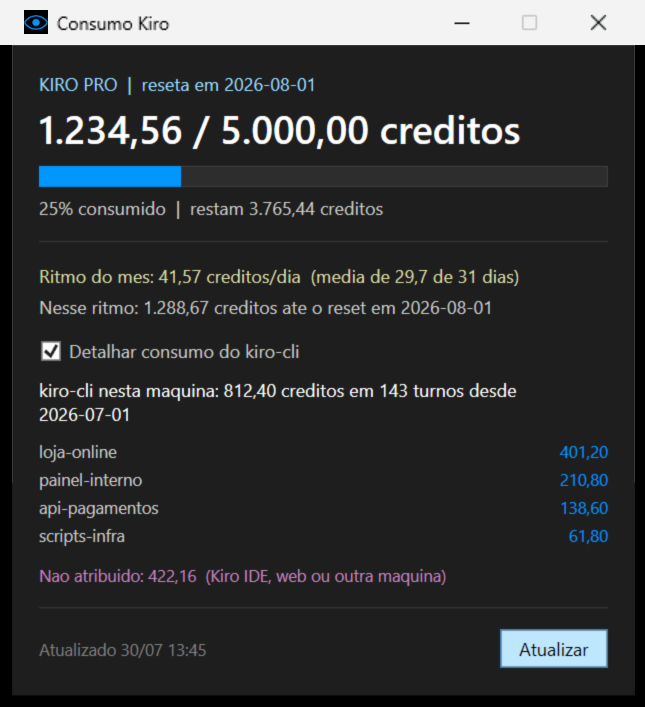
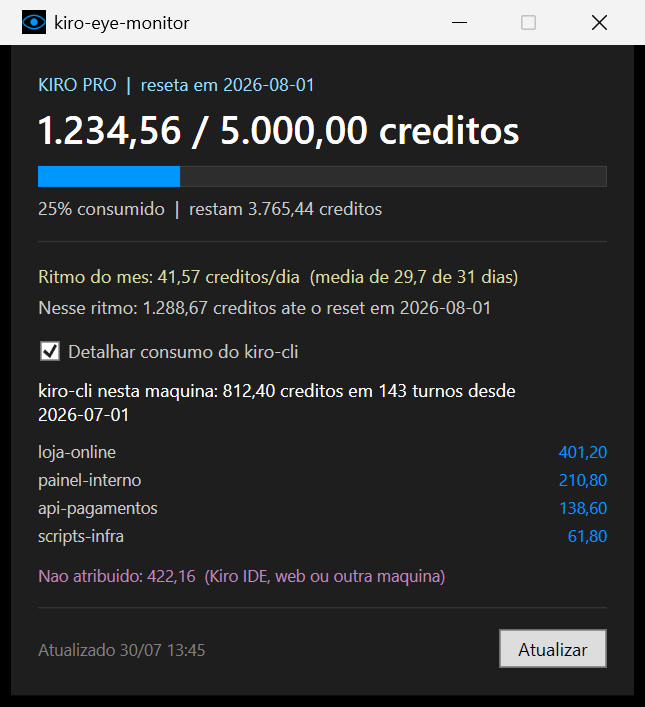
Renomeia o app para kiro-eye-monitor na interface
Título da janela, atalho, ícone de bandeja e mensagens passam a usar o
nome do projeto, em vez de "Consumo Kiro".

O instalador agora encerra a instância aberta procurando pela linha de
comando do processo, e não pelo título da janela: uma instância com
título antigo sobreviveria e travaria a cópia de assets/eye.ico.

diff --git a/windows/MainWindow.xaml b/windows/MainWindow.xaml
@@ -1,6 +1,6 @@
 <Window xmlns="http://schemas.microsoft.com/winfx/2006/xaml/presentation"
         xmlns:x="http://schemas.microsoft.com/winfx/2006/xaml"
-        Title="Consumo Kiro"
+        Title="kiro-eye-monitor"
         Width="430"
         SizeToContent="Height"
         ResizeMode="CanMinimize"

diff --git a/README.md b/README.md
@@ -49,7 +49,7 @@ O repositório traz um [AGENTS.md](AGENTS.md) com o roteiro que o agente segue:
 onde clonar, o que verificar antes, qual comando rodar e como confirmar que
 funcionou. É a mesma instalação, só delegada.
 
-Para abrir depois: o atalho **Consumo Kiro** na área de trabalho, ou
+Para abrir depois: o atalho **kiro-eye-monitor** na área de trabalho, ou
 `%LOCALAPPDATA%\KiroEyeMonitor\Start-KiroEyeMonitor.cmd`.
 
 Depois de atualizar o repositório (`git pull`), rode `./install.sh` de novo para

diff --git a/AGENTS.md b/AGENTS.md
@@ -40,7 +40,7 @@ scripts/collect.sh --account-only
 Deve imprimir um JSON com `account.plan_name` e `account.credits_used`. Se vier
 `{"error": ...}`, a mensagem diz a causa.
 
-A janela em si aparece com o título **Consumo Kiro**.
+A janela em si aparece com o título **kiro-eye-monitor**.
 
 ## Erros comuns
 
